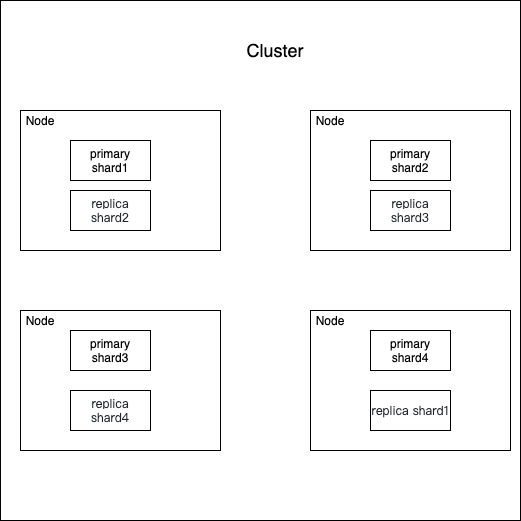
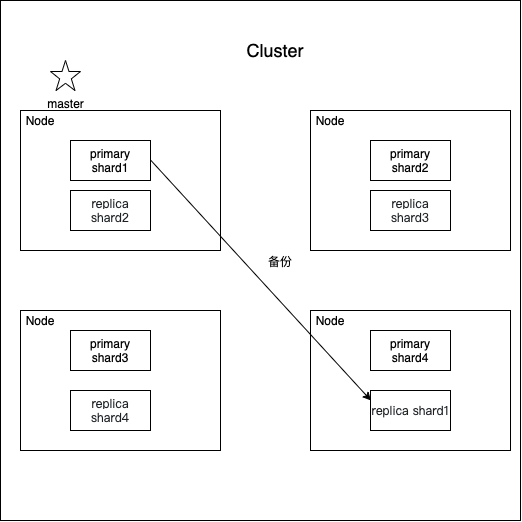
add concerp info

diff --git a/doc/concepts.md b/doc/concepts.md
@@ -1,22 +1,26 @@
 # Arch
-![img.png](assets/elastic-search-arch.png)  
+![img.png](assets/elastic-search-arch.png)
 
 [参考链接](https://www.zhihu.com/question/323811022)
 ## Cluster
 - 一个cluster由一个或多个node组成
 - 一个cluster包含所有的数据
 - cluster name是区分cluster的唯一标示（默认是 `elasticsearch` ）, 
-  所以多个cluster名字要区分, 比如 `logging-stage` `longging-prod`等
+  所以多个cluster名字要区分, 比如 `logging-stage` `longging-prod`等  
+  Node 只能通过cluster名字加入其cluster
 - [cluster](https://www.elastic.co/guide/en/elasticsearch/reference/6.5/getting-started-concepts.html#_cluster)
 
 ## Node
+- 一个 Node 并一定是一台机器，也可以一个机器上部署多个node， 当然这不是一个好的实践
 - Node 和 cluster一样，都由名字唯一标示，node在启动时候会随机分配一个
 - Node 包含很多 Shards
 
 ## Shards & Replicas
 ### 为什么分片
+- 可以理解为mysql的分表
 - 一个index的数据可能很大，一个node存不下，所以index存储时可以指定存到几个shards上
 - 多个分片，在写入或查询的时候就可以并行操作（从各个节点中读写数据，提高吞吐量）
+- 建立索引时，可以设置想要的分片数量
 
 ### 如何实现高可用
 - 每个分片都有对应的副本，副本会拷贝主分片数据
@@ -24,6 +28,10 @@
 - 每个主分片的副本可以有一个或多个
 - 默认情况下，es为每个index分配5个shards，和一个replica.  
   如果你有两个node，则5个主的在一个node,另外5个备份的在一个node.
+
+### Replicas
+shards 分 primary  和  replicas
+
 
 ## 倒排索引
 ### 正排索引
@@ -67,3 +75,7 @@ FST有两个优点：
 Elasticsearch 是 面向文档 的，意味着它存储整个对象或 文档。Elasticsearch 不仅存储文档，而且 索引 每个文档的内容，使之可以被检索。在 Elasticsearch 中，我们对文档进行索引、检索、排序和过滤—而不是对行列数据。这是一种完全不同的思考数据的方式，也是 Elasticsearch 能支持复杂全文检索的原因。
 #### 与sql之间的概念映射
 ![img.png](assets/sql-elastic.png)
+
+## Mapping
+处理数据的方式和规则方面做限制，如：某字段的数据类型、默认值、分析器、是否被索引等
+具体使用查看[mapping](./API/mapping-and-type.md)
